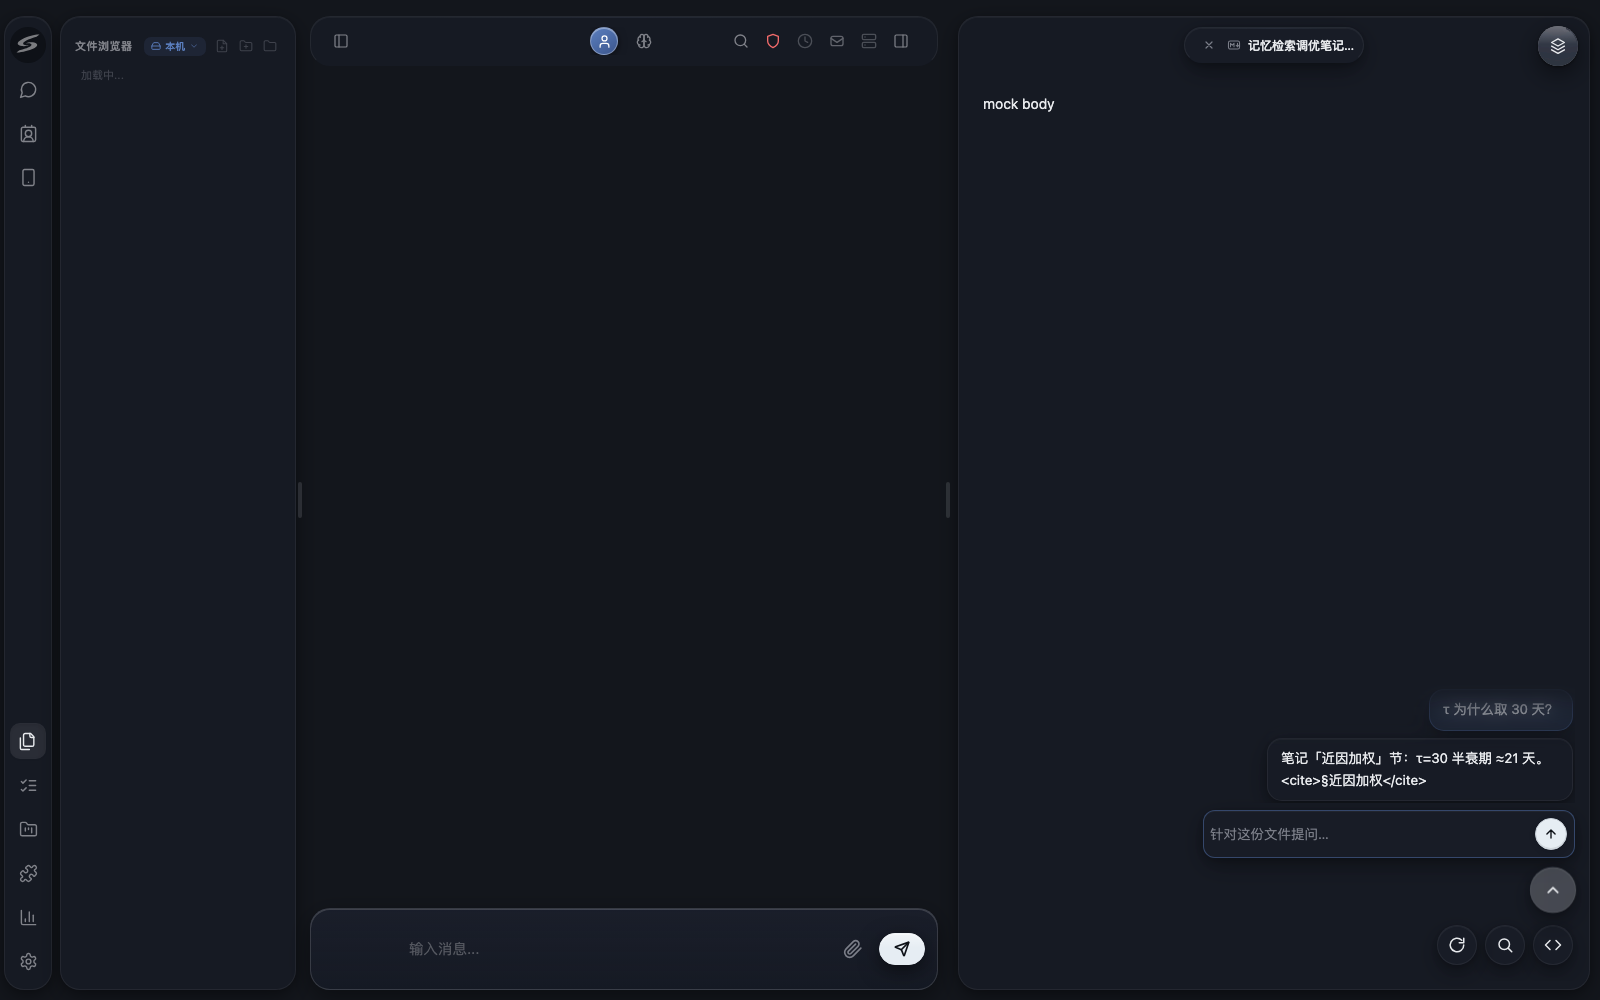
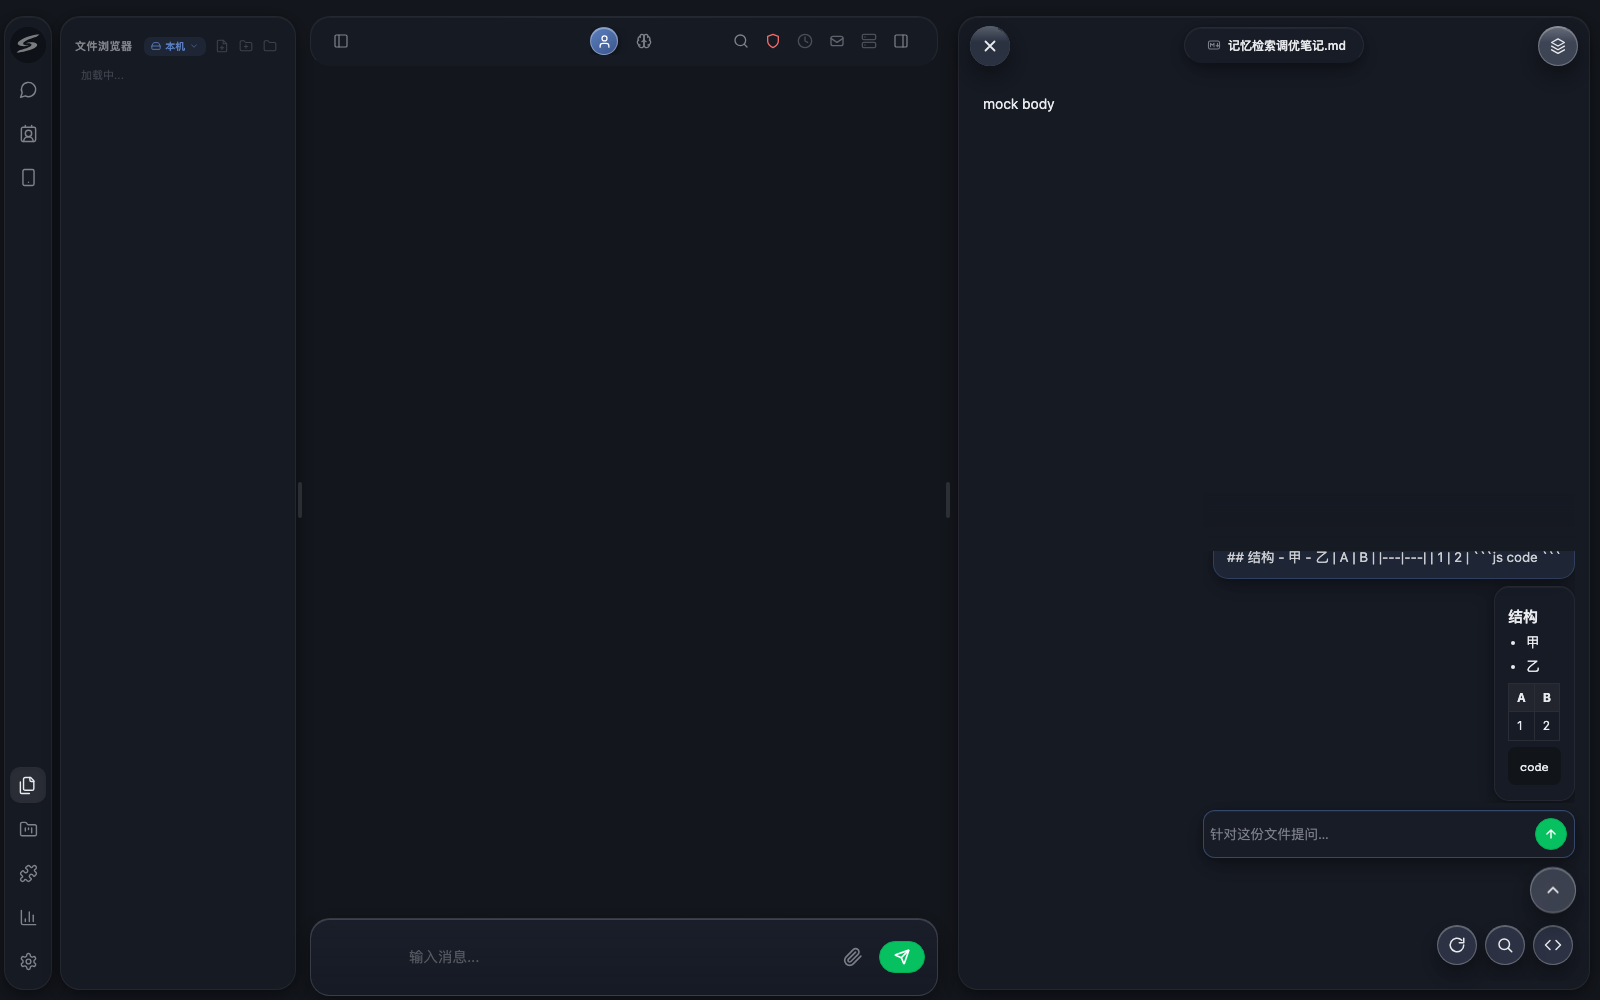
fix(ask): 文档会话修复批（作者 11-01 09:35 令，两件）
① 文档会话切文档后消失 → per-document 会话持久：每文档转录 localStorage
   write-through（键 <brand>_ask:sess:<sid>，建账即注水切回即现；submit/
   askState/done/error/注入 user 全走 persistSession 单点，textDelta 800ms
   节流拍；每会话尾留 60 行、全局 24 份 ts 最旧先出，私密模式静默降级——
   服务端 .ui.json 仍是权威）；askState 合并改「永不缩水」——ask 转录只追加，
   本地比快照长 ⇒ 快照必是重连重放/发问竞态残影，保留本地不换血（旧守卫
   只保最后一条 user 问、AI 答被整表抹除 = 「切文档回来记录没了」根因）；
   补挂守卫升级幂等双闸（末位文本 + 全列同文去重）；退役 sessionKey 徽标
   时代 key 残段。

② 对话区宽度与输入框对齐：气泡 max-width 306 档退役 = 100%（列满档）+
   .ask-col 横 padding 归零——对话区左右缘与 .ask-input 逐像素一致
   （border-box 全局保证同宽；窄气泡仍右贴自然宽，两族形态不变；
   移动档 --ask-bub-maxw token 同步清理）。

回归：canvas-ask-dock 72/72 全绿（新增 T14 持久四面：切卡往返双转录/
重载本地注水先于延迟回放/过期短快照不缩水/持久键在场 + T14e 长快照采纳
接棒退役的 T10b sys 过滤面；T15 同宽两断言；T16 双主题截图）；
canvas-stack 144/0 · reader-p0 29/29 · reader-p1 56/56 · mobile-dock 21/21。
存量欠账同批清偿（spec 断言 vs 后续作者裁定批漂移，main 快照同红）：
T12a 入口钮材质随 v3 F1 扩面改对 #deck-fab 同族；T12d 发送钮随 v3
「跟随主对话」改考古绿 #07C160；T9a/b 移动档随悬浮钮统一批改 48px +
座位 max(dock-h+10, 角簇占用+12) 镜像推导。批文档
docs/20261101_101400_doc-session-persist-and-width__delegate-nebflow-21a8285d.md
（docs/ 为仓库 gitignore 内部区，留工作区不入库）。

diff --git a/src/main/resources/web/js/askDock.js b/src/main/resources/web/js/askDock.js
@@ -1,6 +1,18 @@
 // askDock.js — Canvas 文件 ask mode（2026-10-28 实施批；同日 22:42 v2.1 简化修订；
 // 2026-10-29 三修批②：FAB 通知点改绿点未读条件显示）。
 //
+// 文档会话持久批（2026-11-01 作者令「现在文档的会话 我切文档之后会消失」）：
+// 每文档转录 localStorage write-through（键 = branding 命名空间 + ask:sess:<sid>），
+// 建账即注水（切回即现，不等回放）。动机链：会话 Map 是页内内存态，重载/重连
+// 后只剩 askOpen 回放一条恢复腿；而重连置脏 stateSent ⇒ 发问补发 askOpen ⇒ 回放
+// 快照与本地问答竞态，旧合并守卫只保最后一条 user 问 —— AI 答与更早轮次被快照
+// 整表抹掉（「切文档再切回来记录没了」的实感 = 被抹后的页内存态随切卡一路呈现）。
+// 修复双件：① 本地持久（重载/切卡往返零依赖回放时序）；② askState 合并改
+// 「永不缩水」——ask 转录是只追加流（dock 面零编辑零删除），本地比快照长 ⇒
+// 快照必是过期残影，保留本地；服务端真源仍由 textDelta/done 与下一次完整回放
+// 追平。持久化是体验加速不是正确性依赖（私密模式 try/catch 静默；服务端
+// .ui.json 仍是权威）。
+//
 // 三修②（作者令 2026-10-29「小点应为绿色通知点，只在有（未读）消息时显示」）：
 // 旧「has-sess = 会话有过消息 → 紫点常显」退役。新口径 = 未读通知：AI/注入帧
 // 到达时用户不在看着（dock 收起 ∨ 非当前文件）→ session.unread 置位 → 绿点
@@ -57,11 +69,67 @@ const ICONS = {
   send: '<svg viewBox="0 0 24 24" fill="none" stroke="currentColor" stroke-width="2.4" stroke-linecap="round" stroke-linejoin="round"><path d="M12 19V5M5 12l7-7 7 7"/></svg>',
 };
 
-/** @type {Map<string, {sid: string, key: string, fileName: string, msgs: Array<{role: string, text: string, receipt?: boolean}>, stateSent: boolean, unread: boolean}>} */
+/** @type {Map<string, {sid: string, fileName: string, msgs: Array<{role: string, text: string}>, stateSent: boolean, unread: boolean}>} */
 const sessions = new Map(); // key: absPath
 let el = null; // { fab, dock, col, input, send }（v2.1：ghost/sess/handoff 件随减法退场）
 let currentFile = ''; // absPath of the active file entry ('' = 非文件卡)
 let inited = false;
+
+// ── 每文档会话持久（2026-11-01 作者令批；头注「文档会话持久批」）────────────
+// 键形 = key('ask:sess:<sid>')（branding 命名空间同源）；值 = {ts, msgs:[user/ai]}。
+// 容量闸：每会话尾留 60 行（= 服务端回放档 200 的常用子集，localStorage 行小）、
+// 全局至多 24 份会话（ts 最旧先淘汰——切卡即触碰，活跃文档自然留驻）。
+const SESS_STORE_PREFIX = 'ask:sess:';
+const SESS_MAX_MSGS = 60;
+const SESS_MAX_SESSIONS = 24;
+
+/** 读某会话的本地转录（无/坏/私密模式 ⇒ null——调用方回落空账）。 */
+function loadPersisted(sid) {
+  if (!sid) return null;
+  try {
+    const raw = localStorage.getItem(key(SESS_STORE_PREFIX + sid));
+    if (!raw) return null;
+    const v = JSON.parse(raw);
+    if (!v || !Array.isArray(v.msgs)) return null;
+    const msgs = v.msgs
+      .filter((m) => m && typeof m.text === 'string' && (m.role === 'user' || m.role === 'ai'))
+      .map((m) => ({ role: m.role, text: m.text }));
+    return msgs;
+  } catch { return null; }
+}
+
+/** 写某会话的本地转录（write-through 单点；任何突变后调用）。 */
+function persistSession(s) {
+  if (!s || !s.sid) return;
+  try {
+    const rows = s.msgs
+      .filter((m) => m.role === 'user' || m.role === 'ai')
+      .slice(-SESS_MAX_MSGS)
+      .map((m) => ({ role: m.role, text: m.text }));
+    localStorage.setItem(key(SESS_STORE_PREFIX + s.sid), JSON.stringify({ ts: Date.now(), msgs: rows }));
+    pruneSessionStore();
+  } catch { /* 私密模式 / quota —— 体验加速面，静默降级 */ }
+}
+
+/** 超额淘汰：ts 最旧的会话先出（活跃文档写时即触碰 = ts 刷新，自然留驻）。 */
+function pruneSessionStore() {
+  try {
+    const found = [];
+    const prefix = key(SESS_STORE_PREFIX);
+    for (let i = 0; i < localStorage.length; i++) {
+      const k = localStorage.key(i);
+      if (!k || !k.startsWith(prefix)) continue;
+      let ts = 0;
+      try { const v = JSON.parse(localStorage.getItem(k)); if (v && typeof v.ts === 'number') ts = v.ts; } catch { /* 坏行按最旧算 */ }
+      found.push({ k, ts });
+    }
+    if (found.length <= SESS_MAX_SESSIONS) return;
+    found.sort((a, b) => a.ts - b.ts);
+    for (const e of found.slice(0, found.length - SESS_MAX_SESSIONS)) {
+      try { localStorage.removeItem(e.k); } catch { /* ignore */ }
+    }
+  } catch { /* ignore */ }
+}
 
 // 会话 id = 后端 AskSessions 单点（sha256(absPath) 前 8 hex，前缀 ask-）——
 // 客户端同式派生（crypto.subtle），绑定面零额外往返。
@@ -85,11 +153,13 @@ function ensureSid(absPath) {
 async function sessionFor(absPath, fileName) {
   let s = sessions.get(absPath);
   if (!s) {
+    // 建账即注水（持久批 2026-11-01）：本地转录先上台，切回即现——askOpen 回放
+    // 只是后续对账（服务端为权威），不再是恢复的唯一腿。
+    const sid = await ensureSid(absPath);
     s = {
-      sid: await ensureSid(absPath),
-      key: 'ask:' + (await ensureSid(absPath)).slice(4, 8),
+      sid,
       fileName: fileName || absPath.split('/').pop() || absPath,
-      msgs: [],
+      msgs: loadPersisted(sid) || [],
       stateSent: false,
       unread: false,
     };
@@ -463,6 +533,7 @@ async function submit() {
   // **不再预压空 ai 泡**——等待期只有 typing 一件；首个 textDelta 落 ai 泡时
   // removeTyping() 单点换泡（双泡根因 = 空 ai 泡 + typing 泡并存）。
   s.msgs.push({ role: 'user', text: v });
+  persistSession(s); // 发问即落盘（持久批：重载/竞态现场问题不丢）
   render();
   appendTyping();
   if (!s.stateSent) askOpen(s); // 未绑定先补一拍（历史回放与流式都依赖 askState）
@@ -470,6 +541,7 @@ async function submit() {
 }
 
 let typingNode = null;
+let streamPersistAt = 0; // 流式落盘节流拍（持久批；800ms 一写，done 终局兜底）
 function appendTyping() {
   if (!el) return;
   removeTyping();
@@ -499,31 +571,37 @@ function consumeFrame(msg) {
   switch (msg.type) {
     case 'askState': {
       entry.sid = msg.sessionId || entry.sid;
-      entry.key = msg.sessionKey || '';
       entry.fileName = msg.fileName || entry.fileName;
       // ④ 双泡修复批伴随守卫：submit 先 askOpen 后 askQuestion，回放帧快照可能
-      // 早于本拍提问落账——整表替换会把刚发的 user 泡抹掉（视觉丢问）。合并律：
-      // 本地末条为 user 且服务端历史末条 user 文本不同 ⇒ 本地该问是回放快照后
-      // 的新问，补挂到回放尾（幂等：下帧回放已含它时自然 dedup）。
-      const pendingLocal = entry.msgs.filter((m) => m.role === 'user').slice(-1)[0];
+      // 早于本拍提问落账——整表替换会把刚发的 user 泡抹掉（视觉丢问）。
+      // 持久批 2026-11-01 升级为「永不缩水」合并（头注动机链）：ask 转录是
+      // 只追加流，本地比快照长 ⇒ 快照必是过期/竞态残影（WS 重连重放 + 发问
+      // 竞态现场），保留本地不换血；本地空或快照更长 ⇒ 采纳快照（服务端对账
+      // 追平，含他机续问）。旧守卫「只保最后一条 user 问」的 AI 答整表抹除
+      // 即本批根治点。
       const serverMsgs = Array.isArray(msg.messages)
         ? msg.messages
             .filter((m) => m && typeof m.text === 'string')
             .map((m) => ({
               role: m.role === 'user' ? 'user' : m.role === 'sys' ? 'sys' : 'ai',
               text: m.text,
-              receipt: false,
             }))
         : entry.msgs;
-      const serverLastUser = serverMsgs.filter((m) => m.role === 'user').slice(-1)[0];
-      entry.msgs = serverMsgs;
+      const localLastUser = entry.msgs.filter((m) => m.role === 'user').slice(-1)[0];
+      const adopted = serverMsgs.length >= entry.msgs.length ? serverMsgs : entry.msgs;
+      const adoptedLastUser = adopted.filter((m) => m.role === 'user').slice(-1)[0];
+      entry.msgs = adopted;
+      // 本地发问尚不在账（回放快照早于本拍提问落账）⇒ 补挂到尾。幂等双闸：
+      // 末位问文本相同不挂；问已在账内任意位（服务端已落账）不挂。
       if (
-        pendingLocal &&
-        pendingLocal.role === 'user' &&
-        (!serverLastUser || serverLastUser.text !== pendingLocal.text)
+        localLastUser &&
+        localLastUser.role === 'user' &&
+        (!adoptedLastUser || adoptedLastUser.text !== localLastUser.text) &&
+        !entry.msgs.some((m) => m.role === 'user' && m.text === localLastUser.text)
       ) {
-        entry.msgs = entry.msgs.concat([pendingLocal]);
+        entry.msgs = entry.msgs.concat([localLastUser]);
       }
+      persistSession(entry);
       if (file === currentFile) {
         // 回放即读（用户此刻正看着该会话）：未读清零 + 通知点落位。
         if (isOpen()) { entry.unread = false; removeTyping(); render(); }
@@ -541,6 +619,10 @@ function consumeFrame(msg) {
       }
       const ai = entry.msgs[entry.msgs.length - 1];
       ai.text += msg.delta || '';
+      // 流式落盘节流（持久批）：textDelta 高频，800ms 一拍写 localStorage；
+      // 终局由 done 全量落盘兜底。
+      const nowMs = Date.now();
+      if (nowMs - streamPersistAt > 800) { streamPersistAt = nowMs; persistSession(entry); }
       if (entry === activeSession()) updateStreamingBubble(entry);
       if (entry === activeSession()) syncUnreadDot();
       break;
@@ -549,6 +631,7 @@ function consumeFrame(msg) {
       if (!(entry === activeSession() && isOpen())) entry.unread = true;
       const last = entry.msgs[entry.msgs.length - 1];
       if (last && last.role === 'ai' && !last.text && msg.finalText) last.text = msg.finalText;
+      persistSession(entry);
       if (entry === activeSession()) {
         if (isOpen()) { removeTyping(); render(); }
         syncUnreadDot();
@@ -562,6 +645,7 @@ function consumeFrame(msg) {
       const errText = tt('出错了：', 'Error: ') + (msg.message || 'unknown');
       if (last && last.role === 'ai' && !last.text) last.text = errText;
       else entry.msgs.push({ role: 'ai', text: errText });
+      persistSession(entry);
       if (entry === activeSession()) {
         if (isOpen()) { removeTyping(); render(); }
         syncUnreadDot();
@@ -581,6 +665,7 @@ function consumeFrame(msg) {
       if (msg.injected) {
         if (!(entry === activeSession() && isOpen())) entry.unread = true;
         entry.msgs.push({ role: 'user', text: msg.text || '' });
+        persistSession(entry);
         if (entry === activeSession()) {
           if (isOpen()) { removeTyping(); render(); }
           syncUnreadDot();

diff --git a/src/main/resources/web/css/ask.css b/src/main/resources/web/css/ask.css
@@ -1,5 +1,8 @@
 /* ask.css — Canvas 文件 ask mode（2026-10-28 实施批；同日 22:42 v2.1 简化修订；
- * 2026-10-29 三修批②③：FAB 通知点绿点未读条件显示 + 风格并入 canvas 统一档）。
+ * 2026-10-29 三修批②③：FAB 通知点绿点未读条件显示 + 风格并入 canvas 统一档；
+ * 2026-11-01 文档会话批②：对话区与输入条同宽（气泡 max-width 306 档退役 =
+ * 列满档 + 列横 padding 归零，左右缘与 .ask-input 逐像素一致——作者令「对话的
+ * 宽度要和下面输入框保持一致」）。
  *
  * 形态 = 样张 v2.1（docs/design/20261028_canvas-ask-mode-mockup-v2.html，作者八条令
  * 2026-10-28 17:5x + v2.1 减法令 22:42「简约一点。不需要两个箭头，就右侧一个发送
@@ -34,7 +37,6 @@
   --ask-dock-w: 372px;           /* 覆盖层宽（= 输入框档宽） */
   --ask-col-maxh: 316px;         /* 气泡列 max-height（小巧不占 canvas） */
   --ask-fade-h: 64px;            /* 顶部液体玻璃 v2 渐隐带高（列顶留白同值，首条不入带） */
-  --ask-bub-maxw: 306px;         /* 气泡 max-width */
   --z-ask-dock: 24;              /* < 顶行 30（排他 z 序：永不入顶行） */
   --ask-dot-ring: rgba(255, 255, 255, 0.9);  /* 通知点描边圈（暗档翻 #0b0e14） */
   --ask-link: #1d4ed8;           /* cite 徽标链色（亮档） */
@@ -140,7 +142,9 @@ html[data-theme='light'] {
   /* 列可视高 = 总档 − 带档（E-2：桌面 316−64=252 / 移动 250−56=194）。 */
   width: 100%; max-height: calc(var(--ask-col-maxh) - var(--ask-fade-h)); overflow-y: auto;
   display: flex; flex-direction: column; gap: 7px; align-items: flex-end;
-  padding: 6px 2px 2px;
+  /* 文档会话批②（2026-11-01）：横 padding 归零 —— 气泡区左右缘与输入条
+   * 逐像素对齐（同宽同缘）；纵向 6/2 呼吸留白保留。 */
+  padding: 6px 0 2px;
   scrollbar-width: none; touch-action: pan-y; /* #988：列内纵滚原生，手势零劫持 */
 }
 .ask-col::-webkit-scrollbar { display: none; }
@@ -163,9 +167,12 @@ html.no-backdrop .ask-colwrap .ask-veil {
 
 /* 玻璃气泡（三修③：材质 = canvas --cv-* 单源，与聊天 #header / canvas 控件
  * 计算样式同源；自造 rgba 白面 + 自带外投影退役）。两族制不变——品牌蓝换
- * 活性蓝 sapphire 档（canvas aria-pressed 活性语言既有词汇）= 用户侧 */
+ * 活性蓝 sapphire 档（canvas aria-pressed 活性语言既有词汇）= 用户侧。
+ * 文档会话批②（2026-11-01）：max-width 306 档退役 = 100%（列满档）——宽内容
+ * （表格/代码块/长行）左右缘与输入条一致；窄内容仍右贴自然宽（两族气泡形态
+ * 不变，只是不再被 306px 帽压窄）。 */
 .ask-bub {
-  max-width: var(--ask-bub-maxw);
+  max-width: 100%;
   padding: 9px 13px; border-radius: 15px;
   font-size: 13.5px; line-height: 1.6; word-break: break-word;
   color: var(--color-text);
@@ -251,7 +258,6 @@ body.mobile-layer .ask-fab {
 body.mobile-layer .ask-dock {
   --ask-dock-w: calc(100% - 24px);
   --ask-col-maxh: 250px;
-  --ask-bub-maxw: 252px;
   --ask-fade-h: 56px;
   position: fixed;
   right: var(--ask-fab-gap);
